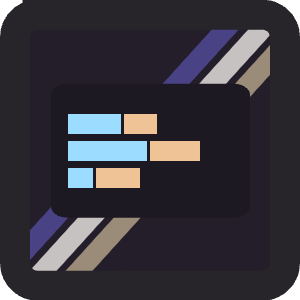
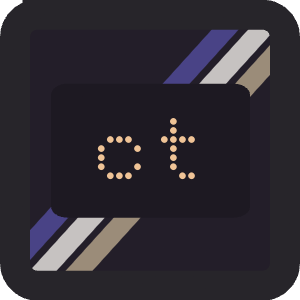
Packaging, dependencies

Changed region(s): [[0.21, 0.36, 0.69, 0.63], [0.6, 0.57, 0.66, 0.6]]

diff --git a/ct-vscode-extension/README.md b/ct-vscode-extension/README.md
@@ -1,22 +1,64 @@
 # CT Language Support for Visual Studio Code
 
+Syntax highlighting for the CT color transformation language.
 
----
+The CT DSL is a domain-specific language designed for authoring, transforming, and compiling color schemes across arbitrary target formats.
+
+![](https://sandydunlop.github.io/assets/images/ct-example.png)
+
+## Showcase
+
+For a fully working example, see [cascara-retro-theme's source code](https://github.com/sandydunlop/cascara-retro-theme). The cascara-retro-theme project uses CT to produce themes for **Visual Studio Code**, **Ghostty**, and **iTerm2** from a single source set. Additionally, [VSIX Gradle Plugin](https://qishr.github.io/cascara/file-formats/vsix/gradle-plugin/) is used by cascara-retro-theme to create the VSIX pacakge for its Visual Studio Code theme.
+
+### Theme Screenshots
+
+**Multiple app themes from one source set:**
+
+![](https://sandydunlop.github.io/assets/images/ct-example-apps.png)
+
+**Multiple Visual Studio Code theme variations from one source set**:
+
+![](https://sandydunlop.github.io/assets/vscode-retro-preview.png)
+
+## CT Features
+
+**Dynamic Color Transformations**
+
+Programmatic color manipulation including HSV/HSBA lerping, brightness/saturation scaling, and RGBA blending.
+
+**Static Function Imports**
+
+Import static methods from custom Java classes to use as transform functions in CT.
+
+**Resource and File Imports**
+
+Module structures using standard file paths and embedded resource schemes like `res://ghostty.ct` via cascara-common-io.
+
+**Format-Agnostic Outputs**
+
+Target definition parsing to emit theme configurations for VS Code, Ghostty, iTerm2, and other application formats from a single source pipeline.
+
+## See Also
+
+- [CT Language Reference](https://qishr.github.io/cascara/language-processors/ct/language-reference/)
+- [CT on Hithub](https://github.com/qishr/cascara-lang-ct)
+- [CT Gradle Plugin](https://qishr.github.io/cascara/language-processors/ct/gradle-plugin/)
+- [VSIX Gradle Plugin](https://qishr.github.io/cascara/file-formats/vsix/gradle-plugin/)
 
 ## Installation
 
 1. Open **Visual Studio Code**
 2. Launch the Extension Marketplace (`Ctrl+Shift+X` or `Cmd+Shift+X`)
-3. Search for `Cascara Theme`
+3. Search for `Cascara CT Language`
 4. Click **Install**
-5. Select `Cascara OG` as your Color Theme
 
 ## License
 
-Cascara Theme is released under the MIT license, which grants the following permissions:
+CT Language Support is released under the MIT license, which grants the following permissions:
 
-Commercial use
-Distribution
-Modification
-Private use
-For more convoluted language, see the LICENSE.
+- Commercial use
+- Distribution
+- Modification
+- Private use
+
+For more convoluted language, see the LICENSE.md

diff --git a/ct-vscode-extension/CHANGELOG.md b/ct-vscode-extension/CHANGELOG.md
@@ -2,7 +2,19 @@
 
 All notable changes to the "CT Language Support" extension will be documented in this file.
 
-## [0.1.0] - 2026-09-15
+## [0.10.3] - 2026-09-16
+
+- Updated README
+
+## [0.10.2] - 2026-09-16
+
+- Updated icon
+
+## [0.10.1] - 2026-09-16
+
+- Updated manifest
+
+## [0.10.0] - 2026-09-15
 
 - Initial release
 
